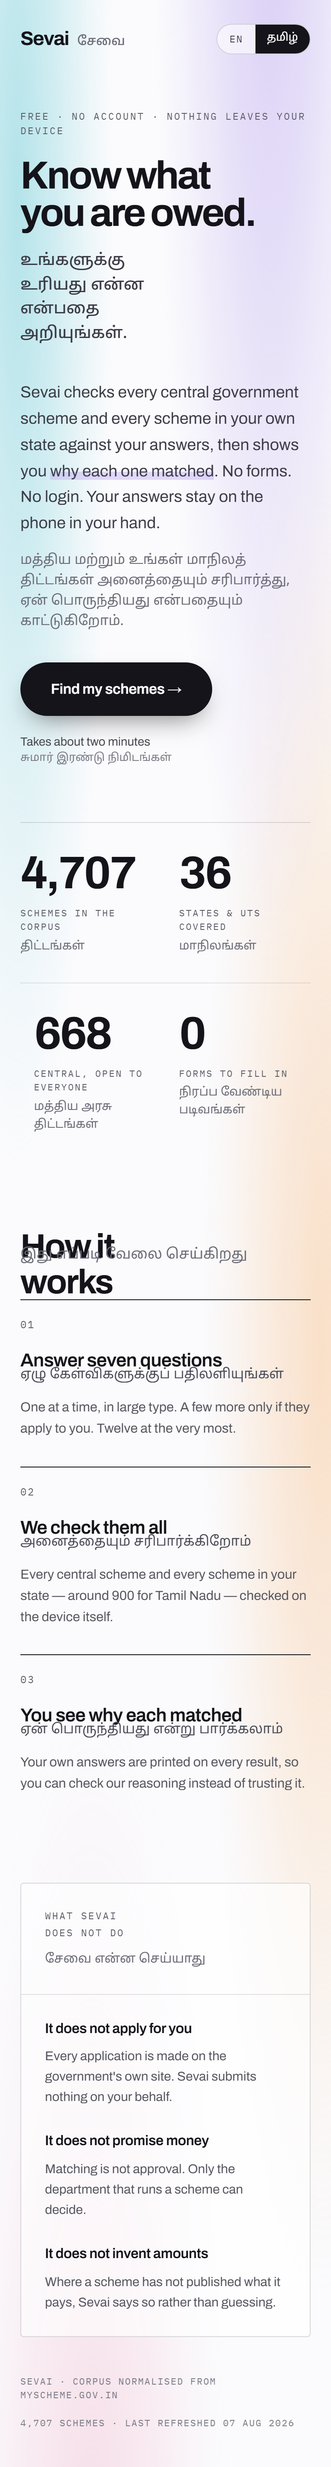
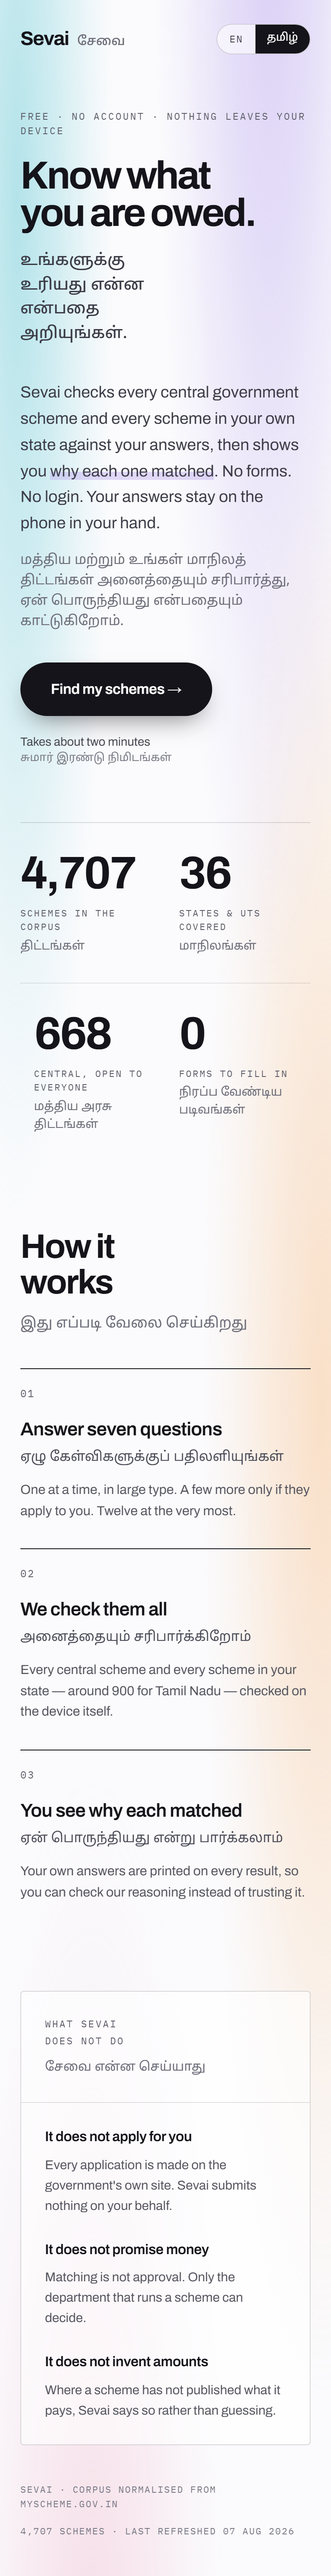
Rename the display classes off Tailwind's height utilities
The landing page rendered its section headings on top of the Tamil line
beneath them. The cause was a name collision, not a layout mistake:
index.css defined .h-1 / .h-2 / .h-3 as display type, and Tailwind ships
h-1 / h-2 / h-3 as HEIGHT utilities — 4px, 8px, 12px.

They set different properties, so both rules applied. "How it works" kept
font-size 40px and a scrollHeight of 85px while being clamped to
height: 4px, so the next element in flow sat across it. Utilities outrank
components in the cascade, so no edit to the declaration could win — the
names themselves had to stop colliding.

Renamed to d-hero / d-1 / d-2 / d-3 and updated the three heading usages
in Landing.jsx. The other eleven h-1 / h-2 / h-3 usages are genuine
heights — dots, a spacer, progress bars — and are untouched.

Frames recaptured at both sizes.

diff --git a/client/src/index.css b/client/src/index.css
@@ -108,11 +108,19 @@ input, select, textarea { font: inherit; color: inherit; }
     font-family: 'Noto Sans Tamil', sans-serif;
   }
 
-  /* Display sizes. Tracking is tight and negative, as in the source. */
-  .h-hero  { font-size: clamp(46px, 6.4vw, 92px); line-height: .95;  font-weight: 700; letter-spacing: -.045em; text-wrap: balance; }
-  .h-1     { font-size: 40px; line-height: 1.06; font-weight: 700; letter-spacing: -.035em; }
-  .h-2     { font-size: 34px; line-height: 1.1;  font-weight: 700; letter-spacing: -.035em; }
-  .h-3     { font-size: 22px; line-height: 1.25; font-weight: 600; letter-spacing: -.02em; }
+  /* Display sizes. Tracking is tight and negative, as in the source.
+     Named d-* rather than h-*: Tailwind ships h-1 / h-2 / h-3 as HEIGHT
+     utilities (4px / 8px / 12px). Those set a different property, so both
+     rules applied at once — the heading kept its font-size and was also
+     clamped to 4px tall, and whatever followed it in the flow overlapped it.
+     Utilities outrank components in the cascade, so this could not be fixed
+     by editing the declaration; the names had to stop colliding. h-1/h-2/h-3
+     are used as real heights elsewhere (dots, spacers, progress bars) and
+     still work. */
+  .d-hero  { font-size: clamp(46px, 6.4vw, 92px); line-height: .95;  font-weight: 700; letter-spacing: -.045em; text-wrap: balance; }
+  .d-1     { font-size: 40px; line-height: 1.06; font-weight: 700; letter-spacing: -.035em; }
+  .d-2     { font-size: 34px; line-height: 1.1;  font-weight: 700; letter-spacing: -.035em; }
+  .d-3     { font-size: 22px; line-height: 1.25; font-weight: 600; letter-spacing: -.02em; }
   .figure  { font-size: 54px; line-height: 1;    font-weight: 700; letter-spacing: -.04em; }
   .figure-sm { font-size: 36px; line-height: 1.05; font-weight: 800; letter-spacing: -.042em; }
 

diff --git a/client/src/pages/Landing.jsx b/client/src/pages/Landing.jsx
@@ -128,7 +128,7 @@ export default function Landing({ onStart, lang, setLang }) {
             <div className="mono text-[11.5px] tracking-[.15em] text-ink-55 mb-6 sm:mb-7">
               Free · No account · Nothing leaves your device
             </div>
-            <h1 className="h-hero m-0 max-w-[13ch]">Know what you are owed.</h1>
+            <h1 className="d-hero m-0 max-w-[13ch]">Know what you are owed.</h1>
             <div
               className="ta mt-5 font-medium text-ink-80 max-w-[16ch]"
               lang="ta"
@@ -178,7 +178,7 @@ export default function Landing({ onStart, lang, setLang }) {
         {/* ── how it works ─────────────────────────────────────────────── */}
         <div id="how" className="pt-20 sm:pt-24 pb-6 grid gap-10 lg:gap-16 lg:grid-cols-[0.9fr_2.1fr]">
           <div>
-            <h2 className="h-1 m-0">How it<br />works</h2>
+            <h2 className="d-1 m-0">How it<br />works</h2>
             <div className="ta text-[17px] text-ink-45 mt-3.5" lang="ta">
               இது எப்படி வேலை செய்கிறது
             </div>
@@ -187,7 +187,7 @@ export default function Landing({ onStart, lang, setLang }) {
             {steps.map(([n, en, ta, body]) => (
               <div key={n} className="pt-5 border-t-[1.5px] border-ink">
                 <div className="mono text-[12px] tracking-[.12em] text-ink-55">{n}</div>
-                <div className="h-3 mt-5">{en}</div>
+                <div className="d-3 mt-5">{en}</div>
                 <div className="ta text-[16px] text-ink-65 mt-1.5" lang="ta">{ta}</div>
                 <p className="mt-3.5 mb-0 text-[15.5px] leading-[1.6] text-ink-60">{body}</p>
               </div>
